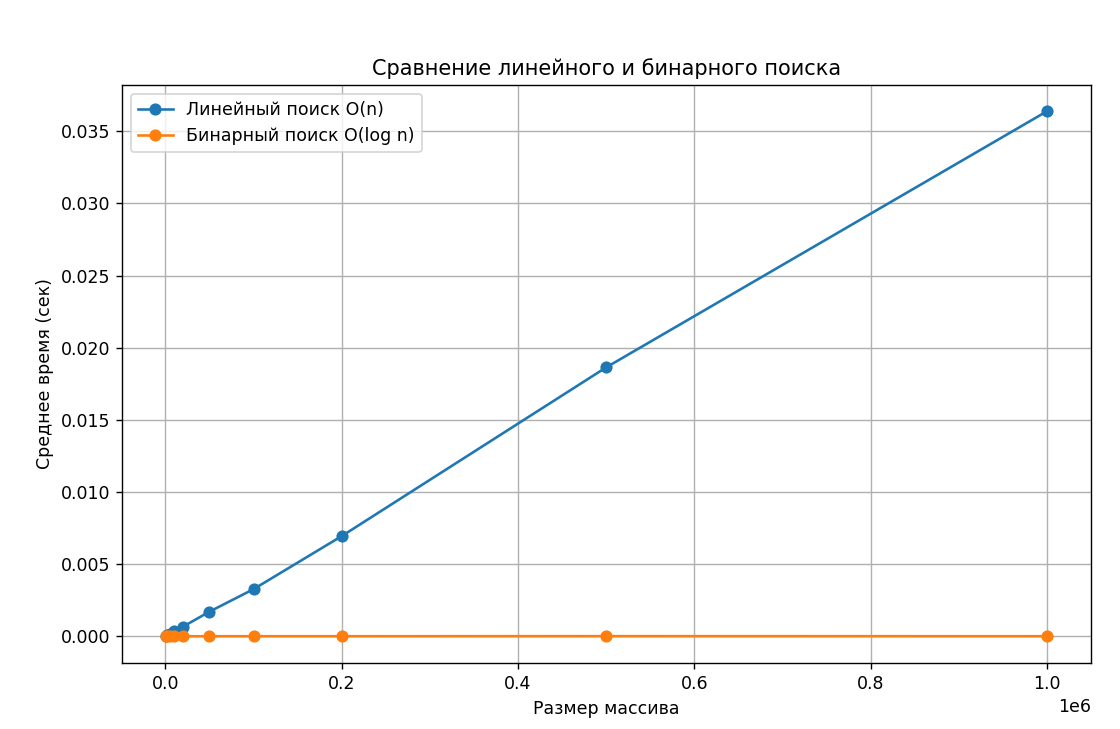
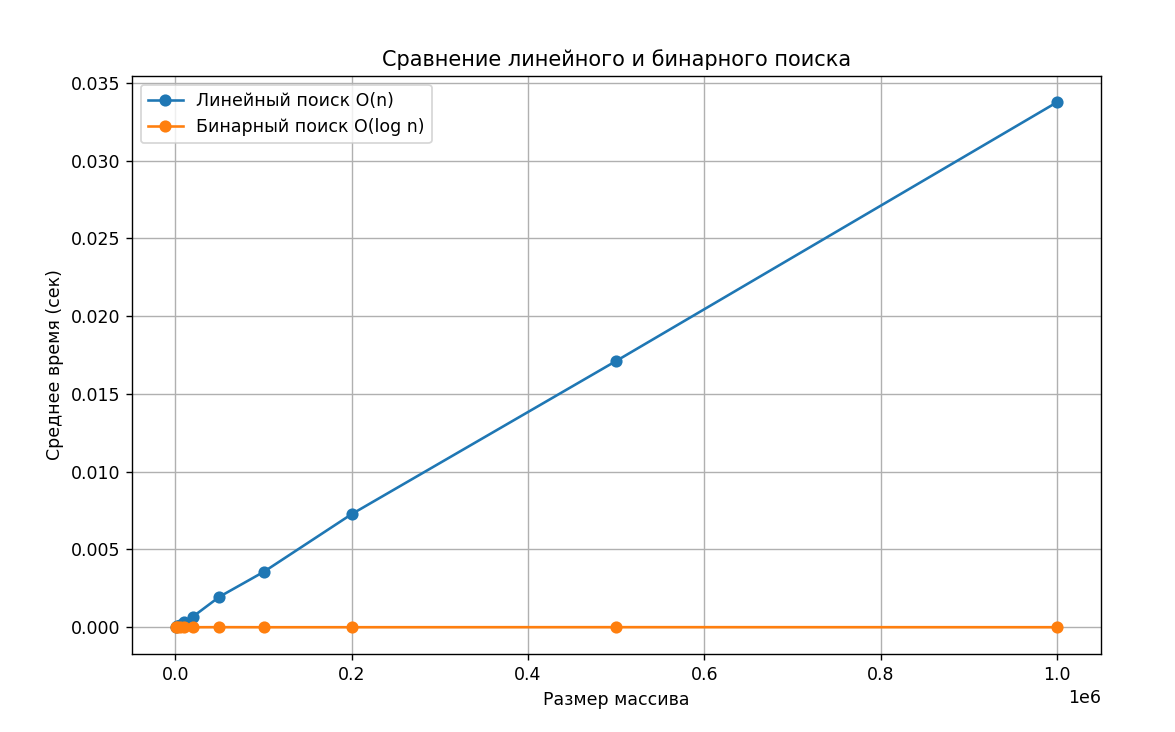
first laba-done

diff --git a/laba01/README.MD b/laba01/README.MD
@@ -81,7 +81,7 @@ def main():
  - Построить второй график в логарифмическом масштабе по оси y (для наглядного
  отображения O(log n)) или по обеим осям (log-log scale).
 ![img_2.png](img_2.png)
-![img_1.png](img_1.png)
+![img_3.png](img_3.png)
 ### 6. Анализ и объяснение расхождений между теорией и практикой  
 
 #### 1. Теоретические ожидания  
